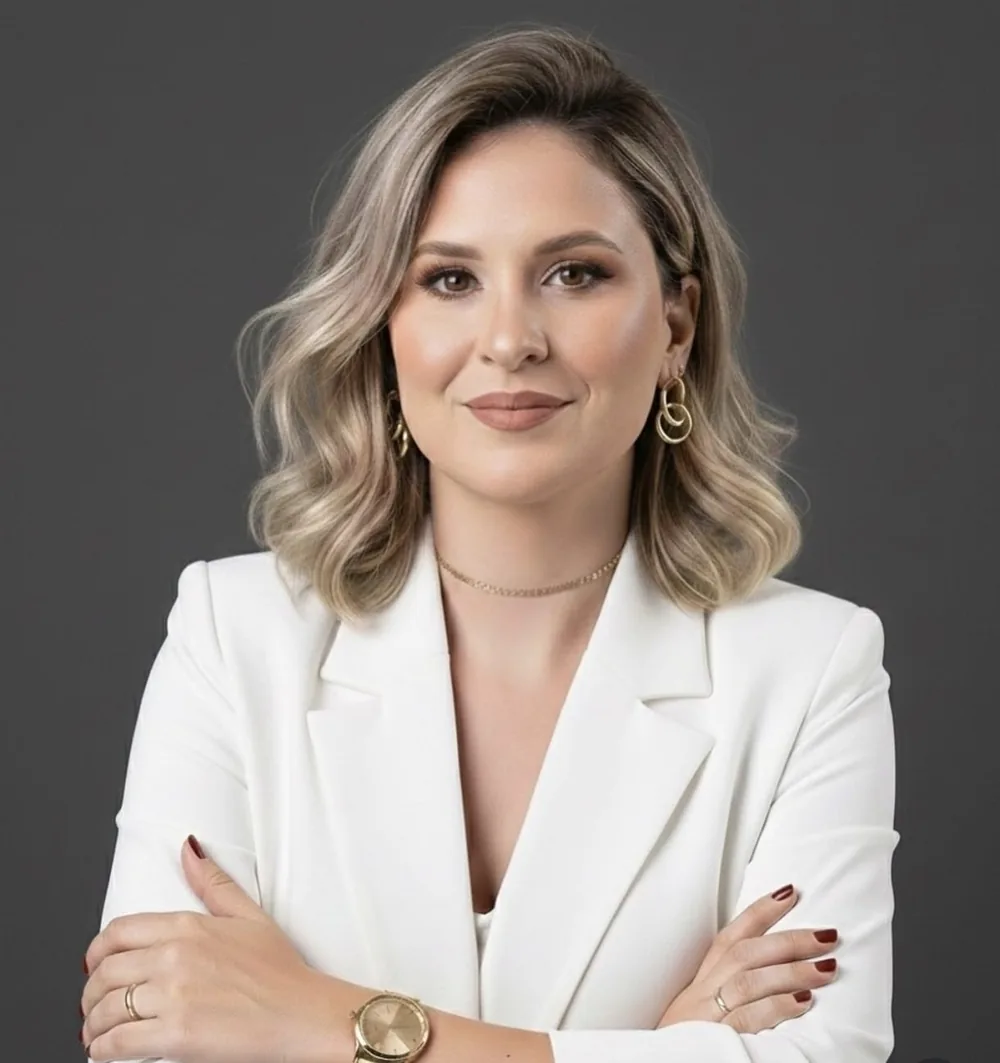
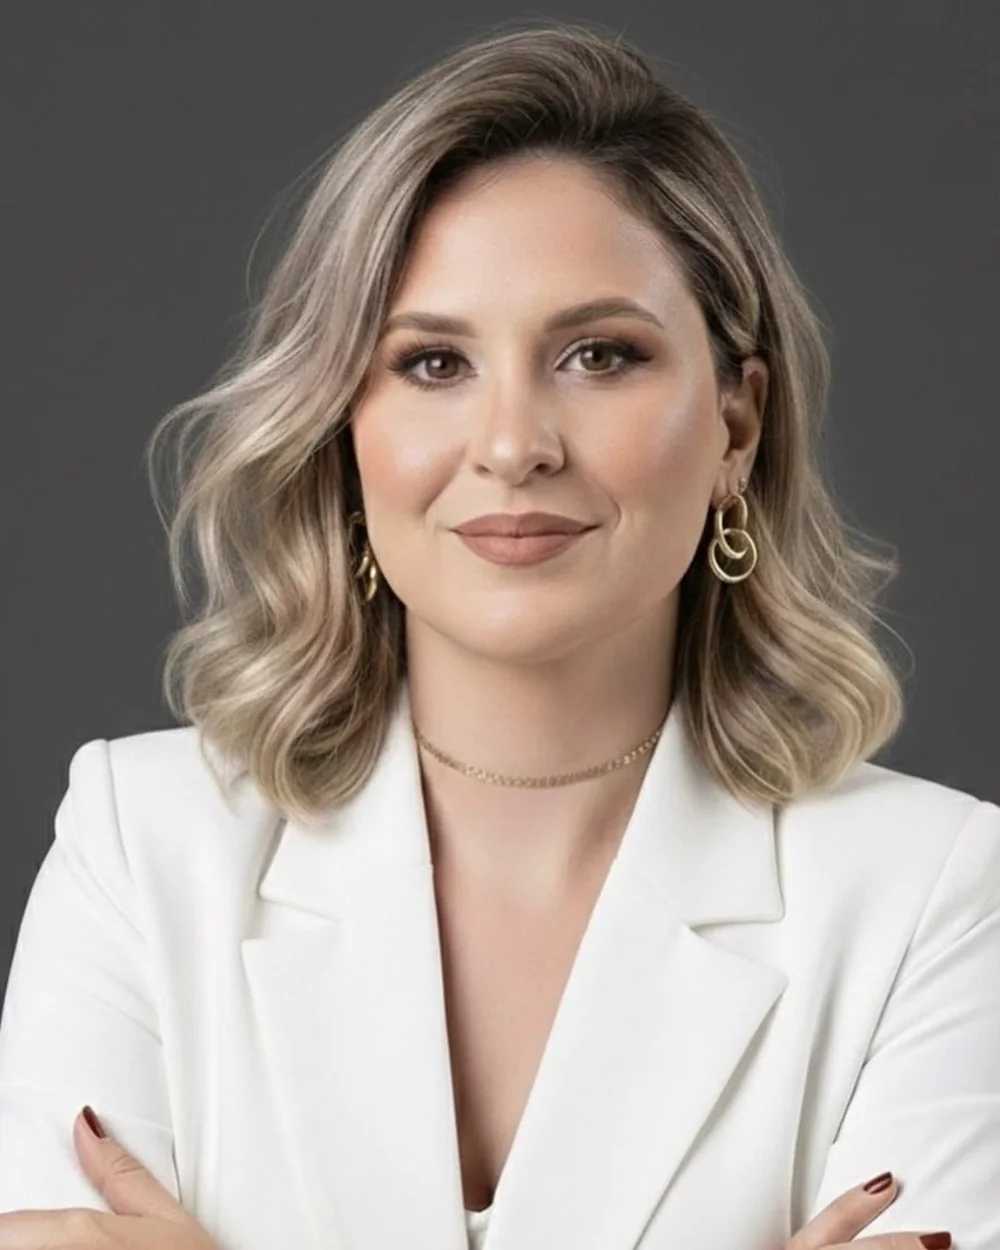
Reescreve seção de Localização (mobile-first) e refina recorte das fotos
Título corrigido para "Venha nos visitar". Seção reconstruída com ordem
mobile-first explícita (label, título, texto, endereço, botões, mapa, aviso)
e composição em duas colunas equilibradas no desktop. Mapa ganha camada de
"toque para interagir" contra scroll-jacking; WhatsApp flutuante some
suavemente enquanto o mapa está visível, para nunca cobrir seus controles.
Copiar endereço ganha fallback sem Clipboard API. Fotos do Hero e Sobre
recortadas manualmente para enquadrar rosto/mãos dentro do card, priorizando
a moldura elegante do site sobre o corte original das fotos enviadas.

diff --git a/src/components/sections/Location.tsx b/src/components/sections/Location.tsx
@@ -1,86 +1,205 @@
-import { useState } from 'react'
-import { MapPin, Copy, Check, ExternalLink, CalendarClock } from 'lucide-react'
+import { useEffect, useRef, useState, type ReactNode, type Ref } from 'react'
+import { MapPin, Copy, Check, Navigation, CalendarClock } from 'lucide-react'
 import { Container } from '../ui/Container'
-import { SectionHeading } from '../ui/SectionHeading'
 import { Reveal } from '../ui/Reveal'
 import { siteConfig } from '../../data/siteConfig'
 import { copyToClipboard } from '../../utils/clipboard'
+import { dispatchLocationMapVisibility } from '../../utils/mapVisibilityEvent'
 
 const mapsQuery = encodeURIComponent(siteConfig.address.full)
 const mapsSearchUrl = `https://www.google.com/maps/search/?api=1&query=${mapsQuery}`
 const mapsEmbedUrl = `https://maps.google.com/maps?q=${mapsQuery}&output=embed`
 
+type CopyState = 'idle' | 'copied' | 'error'
+
 export function Location() {
-  const [copied, setCopied] = useState(false)
+  const [copyState, setCopyState] = useState<CopyState>('idle')
+  const [mapActive, setMapActive] = useState(false)
+  const mobileMapRef = useRef<HTMLDivElement>(null)
+  const desktopMapRef = useRef<HTMLDivElement>(null)
+
+  useEffect(() => {
+    if (copyState === 'idle') return
+    const timer = setTimeout(() => setCopyState('idle'), 2500)
+    return () => clearTimeout(timer)
+  }, [copyState])
+
+  useEffect(() => {
+    const nodes = [mobileMapRef.current, desktopMapRef.current].filter(
+      (node): node is HTMLDivElement => node !== null,
+    )
+    if (nodes.length === 0) return
+
+    const visibility = new Map<Element, boolean>()
+
+    const observer = new IntersectionObserver(
+      (entries) => {
+        entries.forEach((entry) => visibility.set(entry.target, entry.isIntersecting))
+        const anyVisible = Array.from(visibility.values()).some(Boolean)
+        dispatchLocationMapVisibility(anyVisible)
+      },
+      { threshold: 0.1 },
+    )
+
+    nodes.forEach((node) => observer.observe(node))
+
+    return () => {
+      observer.disconnect()
+      dispatchLocationMapVisibility(false)
+    }
+  }, [])
 
   async function handleCopy() {
     const ok = await copyToClipboard(siteConfig.address.full)
-    if (ok) {
-      setCopied(true)
-      setTimeout(() => setCopied(false), 2500)
-    }
+    setCopyState(ok ? 'copied' : 'error')
   }
 
+  const copyLabel =
+    copyState === 'copied'
+      ? 'Endereço copiado'
+      : copyState === 'error'
+        ? 'Selecione e copie manualmente'
+        : 'Copiar endereço'
+
+  const label = (
+    <span className="text-xs font-semibold uppercase tracking-[0.2em] text-terracotta">Localização</span>
+  )
+
+  const title = (
+    <h2 className="text-balance font-serif text-3xl leading-tight text-olive-dark sm:text-4xl">
+      Venha nos visitar
+    </h2>
+  )
+
+  const welcomeText = (
+    <p className="max-w-md text-base leading-relaxed text-ink-soft">
+      Um espaço preparado para proporcionar acolhimento, tranquilidade e cuidado em cada detalhe.
+    </p>
+  )
+
+  const addressBlock = (
+    <div className="flex w-full max-w-md items-start gap-3 rounded-2xl bg-cream p-4 text-left shadow-[0_2px_16px_rgba(43,43,38,0.05)] lg:max-w-full">
+      <MapPin size={20} className="mt-0.5 shrink-0 text-terracotta" />
+      <p className="font-serif text-base leading-snug text-olive-dark sm:text-lg">{siteConfig.address.full}</p>
+    </div>
+  )
+
+  const infoNote = (
+    <div className="flex w-full max-w-md items-start gap-3 rounded-2xl bg-olive/8 p-4 text-left lg:max-w-full">
+      <CalendarClock size={20} className="mt-0.5 shrink-0 text-olive-dark" />
+      <p className="text-sm leading-relaxed text-ink-soft">
+        Atendimento realizado somente mediante agendamento prévio.
+      </p>
+    </div>
+  )
+
+  const buttons = (
+    <div className="flex w-full max-w-md flex-col gap-3 lg:max-w-full">
+      <a
+        href={mapsSearchUrl}
+        target="_blank"
+        rel="noopener noreferrer"
+        className="flex min-h-14 w-full items-center justify-center gap-2 rounded-full bg-olive px-5 text-sm font-medium text-cream transition hover:bg-olive-dark active:scale-[0.98]"
+      >
+        <Navigation size={18} />
+        Abrir no Google Maps
+      </a>
+      <button
+        type="button"
+        onClick={handleCopy}
+        className="flex min-h-14 w-full items-center justify-center gap-2 rounded-full border border-olive px-5 text-sm font-medium text-olive-dark transition hover:bg-olive hover:text-cream active:scale-[0.98]"
+      >
+        {copyState === 'copied' ? <Check size={18} /> : <Copy size={18} />}
+        {copyLabel}
+      </button>
+    </div>
+  )
+
   return (
-    <section className="bg-cream py-20 sm:py-28">
-      <Container>
-        <SectionHeading eyebrow="Localização" title="Ou melhor, venha nos visitar" align="left" />
+    <section className="relative overflow-hidden bg-sand py-16 sm:py-20 lg:py-28">
+      <div
+        aria-hidden="true"
+        className="pointer-events-none absolute -left-24 top-8 h-72 w-72 rounded-full bg-olive/10 blob-shape"
+      />
+      <div
+        aria-hidden="true"
+        className="pointer-events-none absolute -right-16 bottom-0 h-56 w-56 rounded-full bg-terracotta/10 blob-shape"
+      />
 
-        <div className="mt-12 grid gap-8 lg:grid-cols-2 lg:items-stretch">
-          <Reveal>
-            <div className="flex h-full flex-col justify-between gap-8 rounded-3xl bg-sand p-7 sm:p-9">
-              <div>
-                <div className="flex items-start gap-3">
-                  <MapPin size={22} className="mt-1 shrink-0 text-terracotta" />
-                  <div>
-                    <p className="font-serif text-lg text-olive-dark">{siteConfig.address.full}</p>
-                    <p className="mt-1 text-sm text-ink-soft/70">
-                      Ponto de referência a confirmar com a cliente.
-                    </p>
-                  </div>
-                </div>
+      <Container className="relative">
+        {/* Mobile-first: ordem exata exigida em uma única coluna */}
+        <Reveal className="flex flex-col items-center gap-5 text-center lg:hidden">
+          {label}
+          {title}
+          {welcomeText}
+          {addressBlock}
+          {buttons}
+          <MapCard
+            ref={mobileMapRef}
+            mapActive={mapActive}
+            onActivate={() => setMapActive(true)}
+            heightClass="h-[300px]"
+          />
+          {infoNote}
+        </Reveal>
 
-                <div className="mt-6 flex items-start gap-3 rounded-2xl bg-cream/70 p-4 text-sm text-ink-soft">
-                  <CalendarClock size={18} className="mt-0.5 shrink-0 text-olive-dark" />
-                  Atendimento somente com agendamento prévio.
-                </div>
-              </div>
-
-              <div className="flex flex-col gap-3 sm:flex-row">
-                <button
-                  type="button"
-                  onClick={handleCopy}
-                  className="flex flex-1 items-center justify-center gap-2 rounded-full border border-olive px-5 py-3 text-sm font-medium text-olive-dark transition hover:bg-olive hover:text-cream"
-                >
-                  {copied ? <Check size={16} /> : <Copy size={16} />}
-                  {copied ? 'Endereço copiado' : 'Copiar endereço'}
-                </button>
-                <a
-                  href={mapsSearchUrl}
-                  target="_blank"
-                  rel="noopener noreferrer"
-                  className="flex flex-1 items-center justify-center gap-2 rounded-full bg-olive px-5 py-3 text-sm font-medium text-cream transition hover:bg-olive-dark"
-                >
-                  <ExternalLink size={16} />
-                  Abrir no Google Maps
-                </a>
-              </div>
-            </div>
+        {/* Desktop/tablet: duas colunas equilibradas */}
+        <div className="hidden lg:grid lg:grid-cols-2 lg:items-center lg:gap-14">
+          <Reveal className="flex flex-col items-start gap-5 text-left">
+            {label}
+            {title}
+            {welcomeText}
+            {addressBlock}
+            {infoNote}
+            {buttons}
           </Reveal>
 
           <Reveal delayMs={100}>
-            <div className="h-72 w-full overflow-hidden rounded-3xl shadow-[0_4px_24px_rgba(43,43,38,0.08)] lg:h-full lg:min-h-[320px]">
-              <iframe
-                title={`Mapa de localização — ${siteConfig.address.full}`}
-                src={mapsEmbedUrl}
-                className="h-full w-full border-0"
-                loading="lazy"
-                referrerPolicy="no-referrer-when-downgrade"
-              />
-            </div>
+            <MapCard
+              ref={desktopMapRef}
+              mapActive={mapActive}
+              onActivate={() => setMapActive(true)}
+              heightClass="h-full min-h-[420px]"
+            />
           </Reveal>
         </div>
       </Container>
     </section>
+  )
+}
+
+interface MapCardProps {
+  mapActive: boolean
+  onActivate: () => void
+  heightClass: string
+  ref: Ref<HTMLDivElement>
+}
+
+function MapCard({ mapActive, onActivate, heightClass, ref }: MapCardProps): ReactNode {
+  return (
+    <div
+      ref={ref}
+      className={`relative w-full overflow-hidden rounded-3xl shadow-[0_4px_24px_rgba(43,43,38,0.1)] ${heightClass}`}
+    >
+      <iframe
+        title={`Mapa de localização — ${siteConfig.address.full}`}
+        src={mapsEmbedUrl}
+        className="h-full w-full border-0"
+        loading="lazy"
+        referrerPolicy="no-referrer-when-downgrade"
+        style={{ pointerEvents: mapActive ? 'auto' : 'none' }}
+      />
+      {!mapActive && (
+        <button
+          type="button"
+          onClick={onActivate}
+          className="absolute inset-0 flex items-center justify-center bg-ink/10 backdrop-blur-[1px] transition-colors hover:bg-ink/15"
+        >
+          <span className="rounded-full bg-cream/95 px-5 py-2.5 text-sm font-medium text-olive-dark shadow-md">
+            Toque para interagir com o mapa
+          </span>
+        </button>
+      )}
+    </div>
   )
 }

diff --git a/src/utils/clipboard.ts b/src/utils/clipboard.ts
@@ -1,7 +1,25 @@
 export async function copyToClipboard(text: string): Promise<boolean> {
+  if (navigator.clipboard && window.isSecureContext) {
+    try {
+      await navigator.clipboard.writeText(text)
+      return true
+    } catch {
+      // segue para o fallback abaixo
+    }
+  }
+
   try {
-    await navigator.clipboard.writeText(text)
-    return true
+    const textarea = document.createElement('textarea')
+    textarea.value = text
+    textarea.setAttribute('readonly', '')
+    textarea.style.position = 'fixed'
+    textarea.style.opacity = '0'
+    textarea.style.pointerEvents = 'none'
+    document.body.appendChild(textarea)
+    textarea.select()
+    const successful = document.execCommand('copy')
+    document.body.removeChild(textarea)
+    return successful
   } catch {
     return false
   }

diff --git a/src/components/layout/WhatsAppFloatButton.tsx b/src/components/layout/WhatsAppFloatButton.tsx
@@ -1,13 +1,30 @@
+import { useEffect, useState } from 'react'
 import { buildSimpleContactMessage, buildWhatsAppUrl } from '../../utils/whatsapp'
+import { LOCATION_MAP_VISIBILITY_EVENT } from '../../utils/mapVisibilityEvent'
 
 export function WhatsAppFloatButton() {
+  const [mapNearby, setMapNearby] = useState(false)
+
+  useEffect(() => {
+    function handleMapVisibility(event: Event) {
+      const detail = (event as CustomEvent<{ visible: boolean }>).detail
+      setMapNearby(Boolean(detail?.visible))
+    }
+    window.addEventListener(LOCATION_MAP_VISIBILITY_EVENT, handleMapVisibility)
+    return () => window.removeEventListener(LOCATION_MAP_VISIBILITY_EVENT, handleMapVisibility)
+  }, [])
+
   return (
     <a
       href={buildWhatsAppUrl(buildSimpleContactMessage())}
       target="_blank"
       rel="noopener noreferrer"
       aria-label="Conversar no WhatsApp"
-      className="fixed bottom-5 right-5 z-40 flex h-14 w-14 items-center justify-center rounded-full bg-[#2f6b4f] text-cream shadow-lg transition-transform duration-300 hover:scale-105 active:scale-95 sm:bottom-7 sm:right-7"
+      aria-hidden={mapNearby}
+      tabIndex={mapNearby ? -1 : undefined}
+      className={`fixed bottom-5 right-5 z-40 flex h-14 w-14 items-center justify-center rounded-full bg-[#2f6b4f] text-cream shadow-lg transition-all duration-300 hover:scale-105 active:scale-95 sm:bottom-7 sm:right-7 ${
+        mapNearby ? 'pointer-events-none translate-y-3 scale-75 opacity-0' : 'opacity-100'
+      }`}
     >
       <WhatsAppIcon />
     </a>

diff --git a/src/utils/mapVisibilityEvent.ts b/src/utils/mapVisibilityEvent.ts
@@ -1,0 +1,5 @@
+export const LOCATION_MAP_VISIBILITY_EVENT = 'location-map-visibility'
+
+export function dispatchLocationMapVisibility(visible: boolean): void {
+  window.dispatchEvent(new CustomEvent(LOCATION_MAP_VISIBILITY_EVENT, { detail: { visible } }))
+}

diff --git a/src/components/sections/Hero.tsx b/src/components/sections/Hero.tsx
@@ -61,10 +61,10 @@ export function Hero() {
                 src={monicaHeroPhoto}
                 alt="Mônica Nunes, massoterapeuta"
                 width={1000}
-                height={1063}
+                height={1250}
                 loading="eager"
                 fetchPriority="high"
-                className="h-full w-full object-cover object-top"
+                className="h-full w-full object-cover"
               />
               <div className="absolute inset-0 bg-gradient-to-t from-olive-dark/35 via-transparent to-transparent" />
             </div>

diff --git a/src/components/sections/About.tsx b/src/components/sections/About.tsx
@@ -52,7 +52,7 @@ export function About() {
                   src={monicaAboutPhoto}
                   alt="Mônica Nunes, massoterapeuta, sorrindo em seu espaço de atendimento"
                   width={1000}
-                  height={1214}
+                  height={1250}
                   loading="lazy"
                   className="h-full w-full object-cover"
                 />

diff --git a/CHANGELOG.md b/CHANGELOG.md
@@ -1,5 +1,24 @@
 # Changelog
 
+## [0.5.0] - Reescrita da seção de Localização (mobile-first) e recorte das fotos
+
+- **Localização**: título corrigido para "Venha nos visitar" (removido "Ou melhor" em todo o
+  site). Seção reescrita com abordagem mobile-first real: no celular, ordem exata
+  label → título → texto → endereço → botão "Abrir no Google Maps" → botão "Copiar endereço" →
+  mapa → aviso de agendamento; no desktop/tablet largo (≥1024px), duas colunas equilibradas
+  (conteúdo à esquerda, mapa à direita, altura igual).
+- Mapa com camada "Toque para interagir com o mapa" no primeiro toque (mobile e desktop),
+  evitando que o iframe capture a rolagem da página antes da ativação; após tocar, o próprio
+  embed do Google exige Ctrl+scroll para zoom, reforçando a proteção contra scroll-jacking.
+- Botão flutuante do WhatsApp agora se esconde suavemente (fade + escala) sempre que o mapa da
+  Localização está visível na tela, para nunca cobrir os controles do mapa
+  (`src/utils/mapVisibilityEvent.ts` + `IntersectionObserver` em `Location.tsx`).
+- "Copiar endereço" ganhou fallback (`document.execCommand('copy')`) para navegadores sem
+  suporte à Clipboard API, além do feedback "Endereço copiado" que já existia.
+- **Fotos do Hero e Sobre recortadas manualmente** (Pillow) para enquadrar exatamente 4:5 sem
+  depender do corte automático do navegador — rosto, ombros e mãos bem centralizados dentro da
+  moldura do card, removendo espaço vazio excessivo ao redor da foto original.
+
 ## [0.4.0] - Fotos profissionais reais no Hero e Sobre
 
 - Substituídas as composições orgânicas temporárias do Hero e da seção Sobre por 2 retratos